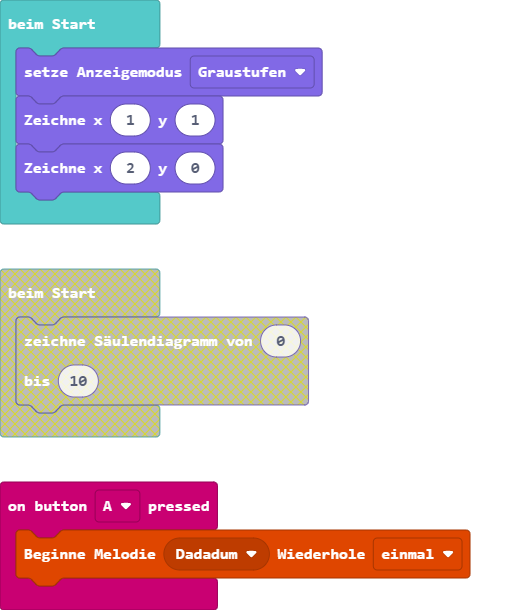
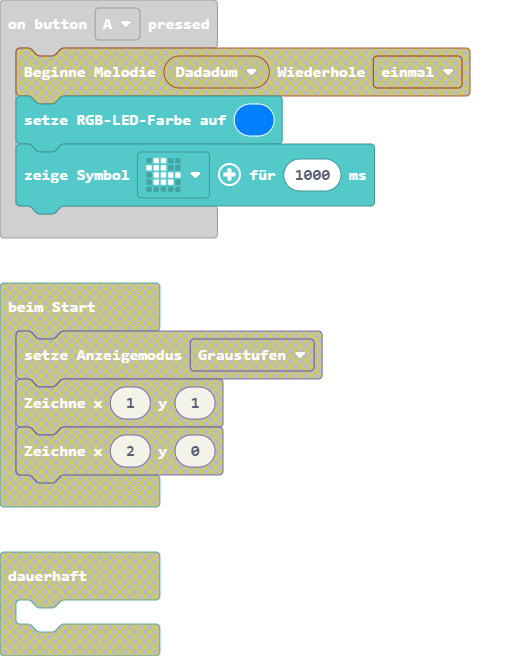
Aktualisiere main.blocks, main.ts, main.py

diff --git a/main.ts b/main.ts
@@ -1,9 +1,4 @@
 input.onButtonPressed(Button.A, function () {
-    music.startMelody(music.builtInMelody(Melodies.Dadadadum), MelodyOptions.Once)
-})
-led.setDisplayMode(DisplayMode.Greyscale)
-led.plot(1, 1)
-led.plot(2, 0)
-basic.forever(function () {
-	
+    basic.setLedColor(0x007fff)
+    basic.showIcon(IconNames.Duck, 1000)
 })

diff --git a/main.py b/main.py
@@ -1,12 +1,4 @@
 def on_button_pressed_a():
-    music.start_melody(music.built_in_melody(Melodies.DADADADUM),
-        MelodyOptions.ONCE)
+    basic.set_led_color(0x007fff)
+    basic.show_icon(IconNames.DUCK, 1000)
 input.on_button_pressed(Button.A, on_button_pressed_a)
-
-led.set_display_mode(DisplayMode.GREYSCALE)
-led.plot(1, 1)
-led.plot(2, 0)
-
-def on_forever():
-    pass
-basic.forever(on_forever)
